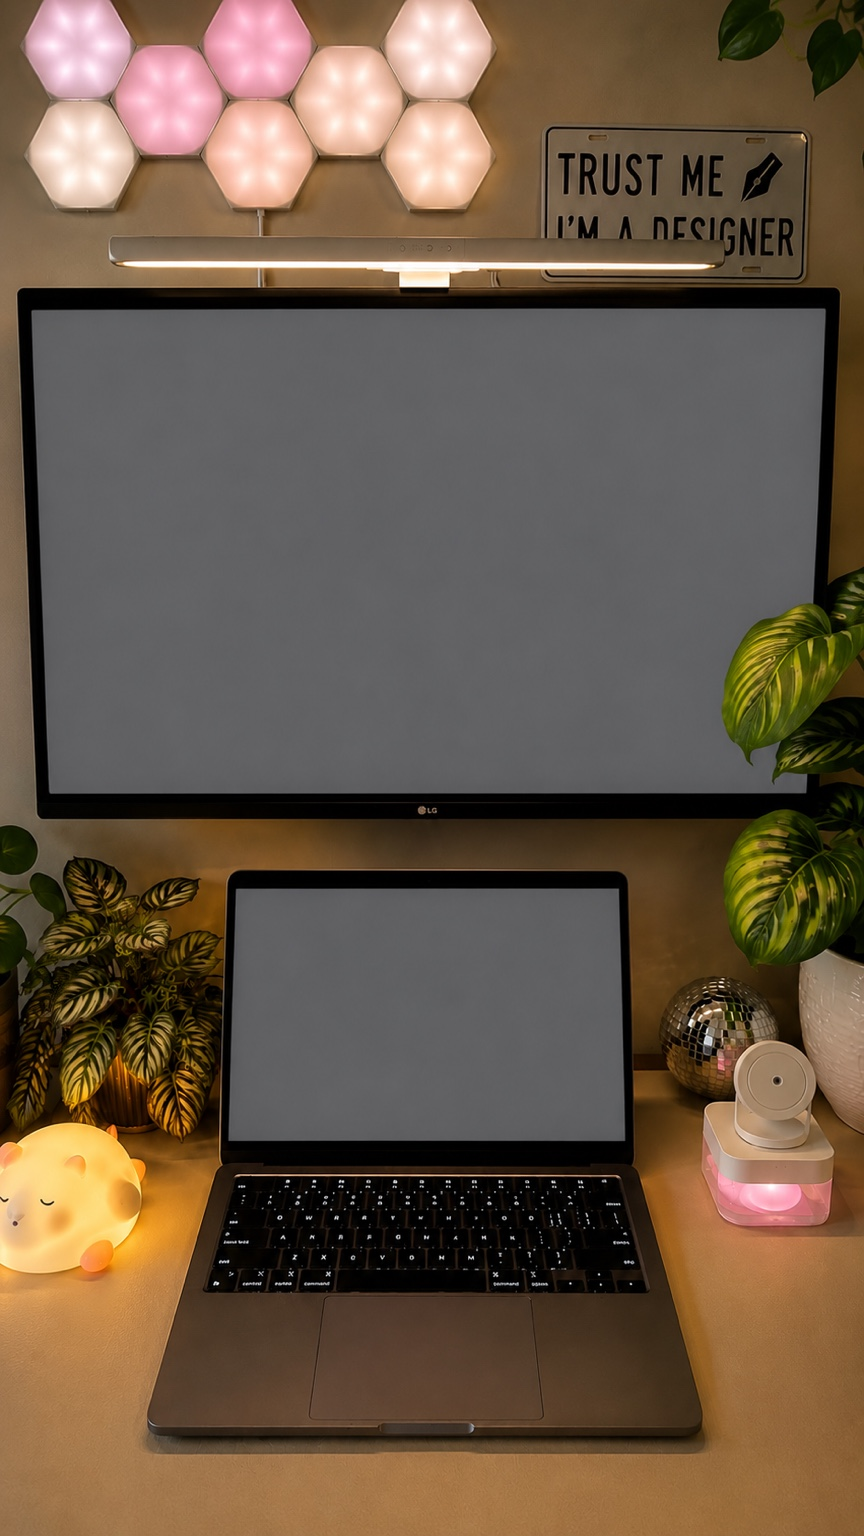
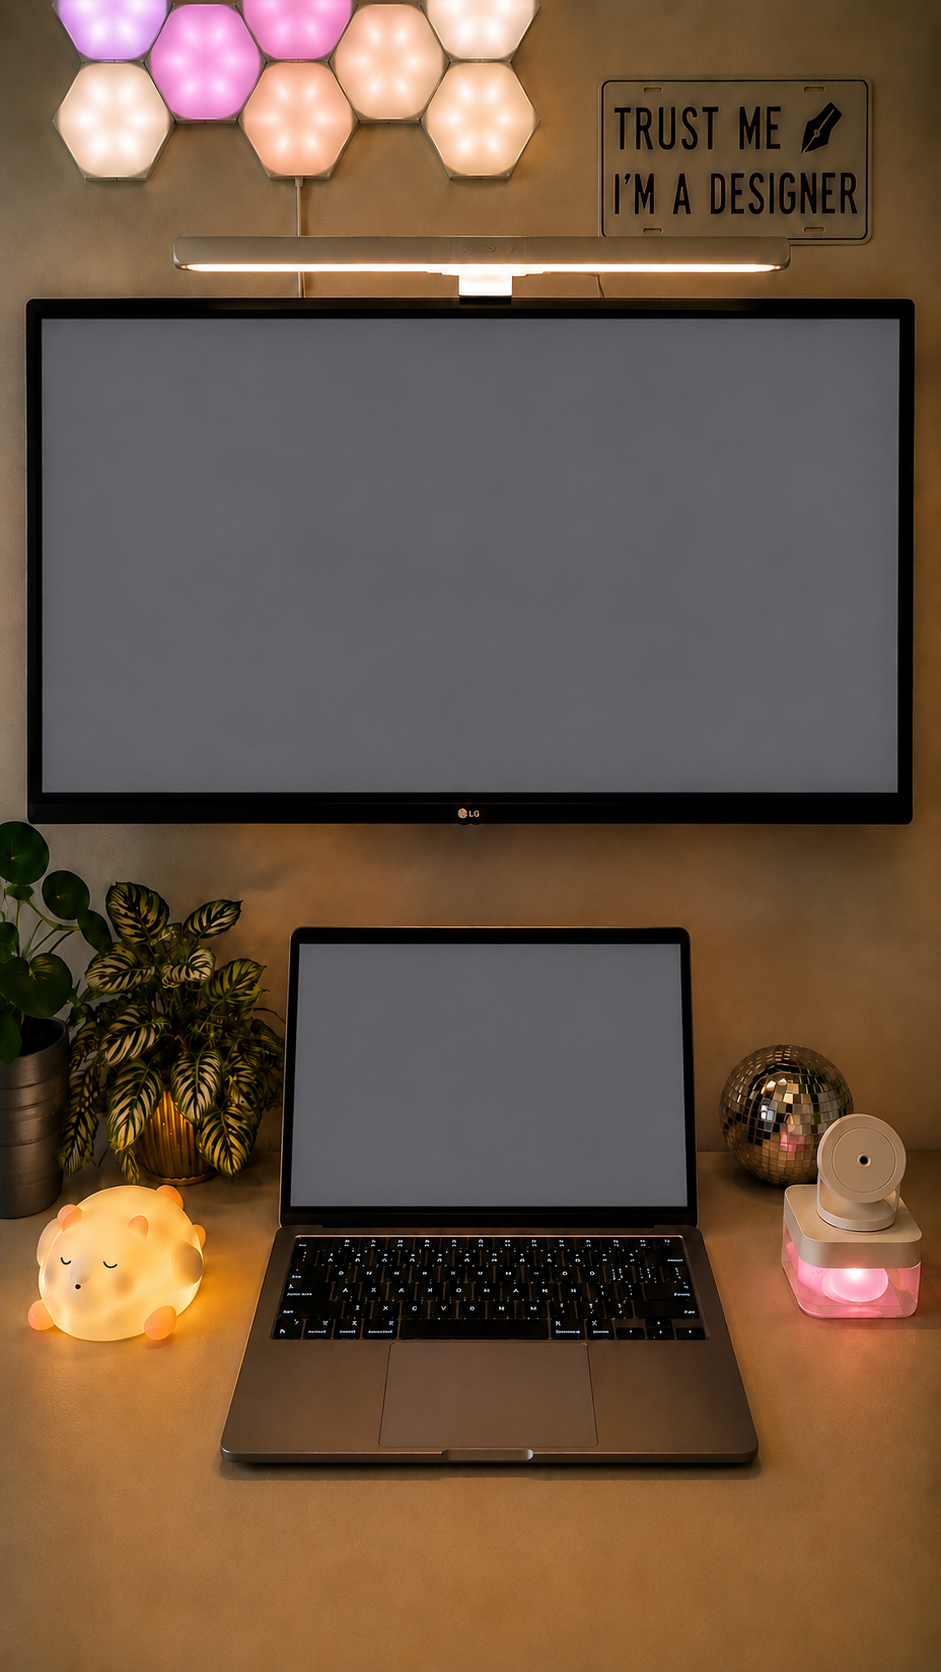
dual screen

diff --git a/src/assets/remotion/compositions/OttoInvoiceChatGptDualScreen.tsx b/src/assets/remotion/compositions/OttoInvoiceChatGptDualScreen.tsx
@@ -7,7 +7,7 @@ import {
 
 export const OTTO_INVOICE_CHATGPT_DUAL_SCREEN_DURATION = OTTO_INVOICE_CHATGPT_NATIVE_DURATION
 
-const VIDEO_WIDTH = 1536
+const SOURCE_HEIGHT = 968
 
 type ScreenGeometry = {
   clipPath: string
@@ -19,26 +19,26 @@ type ScreenGeometry = {
 }
 
 const TV_SCREEN: ScreenGeometry = {
-  clipPath: 'polygon(0% 0%, 100% 0%, 97.7% 100%, 2.3% 100%)',
-  height: 606.25,
-  left: 38.75,
+  clipPath: 'polygon(0% 0%, 100% 0%, 99% 100%, 1% 100%)',
+  height: 544.31,
+  left: 47.66,
   reflection: 'linear-gradient(112deg, rgba(255,224,190,.10) 0%, rgba(255,255,255,.015) 43%, rgba(0,0,0,.08) 100%)',
-  top: 386.25,
-  width: 992.5,
+  top: 366.31,
+  width: 984.11,
 }
 
 const LAPTOP_SCREEN: ScreenGeometry = {
-  clipPath: 'polygon(2.8% 0%, 97.5% 0%, 100% 100%, 0% 100%)',
-  height: 315,
-  left: 287.5,
+  clipPath: 'polygon(2.5% 0%, 97.8% 0%, 100% 100%, 0% 100%)',
+  height: 302.01,
+  left: 332.44,
   reflection: 'linear-gradient(118deg, rgba(255,213,169,.09) 0%, rgba(255,255,255,.02) 48%, rgba(0,0,0,.08) 100%)',
-  top: 1111.25,
-  width: 491.25,
+  top: 1084.02,
+  width: 458.18,
 }
 
 function AdaptedScreen({geometry}: {geometry: ScreenGeometry}) {
-  const scale = geometry.width / VIDEO_WIDTH
-  const viewportHeight = geometry.height / scale
+  const scale = geometry.height / SOURCE_HEIGHT
+  const sourceWidth = geometry.width / scale
 
   return (
     <div
@@ -55,13 +55,13 @@ function AdaptedScreen({geometry}: {geometry: ScreenGeometry}) {
     >
       <div
         style={{
-          height: viewportHeight,
+          height: SOURCE_HEIGHT,
           left: 0,
           position: 'absolute',
           top: 0,
           transform: `scale(${scale})`,
           transformOrigin: 'top left',
-          width: VIDEO_WIDTH,
+          width: sourceWidth,
         }}
       >
         <OttoInvoiceChatGptNative />
